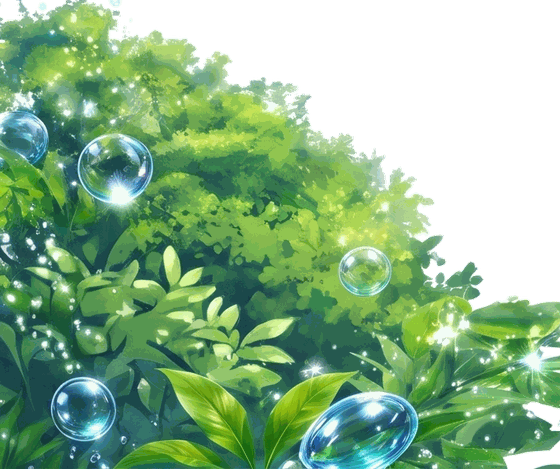
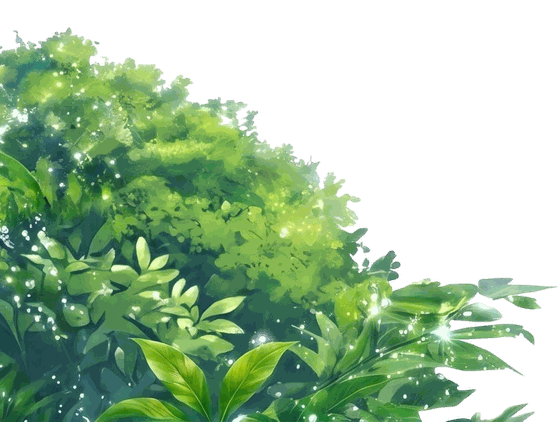
v0.4.11: новые листья, сфера в траве со бликом и ползунком скорости

diff --git a/extension/chat.css b/extension/chat.css
@@ -142,6 +142,60 @@ html.standalone .wrap {
   will-change: transform;
 }
 
+/* Стеклянный шар в правом нижнем углу: лежит ПОД слоем листьев, поэтому снизу
+   его прикрывают непрозрачные листики, как на референсе. Квадратный элемент
+   ровно по картинке — так блик внутри совпадает с шаром, а не с пустым боксом. */
+.bg-sphere {
+  inset: auto 2.6% 0.5% auto;
+  width: 19%;
+  aspect-ratio: 1;
+  background-image: url("bg/sphere.png");
+  background-size: 100% 100%;
+  background-repeat: no-repeat;
+  z-index: 3;
+  transform-origin: 50% 55%;
+  will-change: transform;
+}
+
+.bg-sphere::after {
+  content: "";
+  position: absolute;
+  inset: 6%;
+  border-radius: 50%;
+  background: radial-gradient(circle at 36% 30%, rgba(255, 255, 255, 0.8) 0%, rgba(255, 255, 255, 0.18) 26%, rgba(255, 255, 255, 0) 58%);
+  mix-blend-mode: screen;
+  pointer-events: none;
+}
+
+html[data-sphere="1"] .bg-sphere {
+  animation: sphereTurn calc(26s * var(--k-sphere, 1)) ease-in-out infinite alternate;
+}
+
+html[data-sphere="1"] .bg-sphere::after {
+  animation: sphereLight calc(9s * var(--k-sphere, 1)) ease-in-out infinite alternate;
+}
+
+@keyframes sphereTurn {
+  from {
+    transform: rotate(-3.2deg) scale(1);
+  }
+  to {
+    transform: rotate(3.2deg) scale(1.025);
+  }
+}
+
+/* «преломление»: блик внутри шара медленно гуляет и разгорается */
+@keyframes sphereLight {
+  from {
+    opacity: 0.22;
+    transform: translate3d(-4%, 5%, 0) scale(0.92);
+  }
+  to {
+    opacity: 0.9;
+    transform: translate3d(6%, -5%, 0) scale(1.08);
+  }
+}
+
 .bg-leaf-tl {
   background-image: url("bg/leaf-tl.png");
   background-position: left top;
@@ -184,15 +238,15 @@ html.standalone .wrap {
 }
 
 html[data-plant="1"] .bg-leaf-tl {
-  animation: leafSwayA calc(13s * var(--k-plants, 1)) ease-in-out infinite alternate;
+  animation: leafSwayA calc(9s * var(--k-plants, 1)) ease-in-out infinite alternate;
 }
 
 html[data-plant="1"] .bg-leaf-bl {
-  animation: leafSwayB calc(10s * var(--k-plants, 1)) ease-in-out infinite alternate;
+  animation: leafSwayB calc(7.5s * var(--k-plants, 1)) ease-in-out infinite alternate;
 }
 
 html[data-plant="1"] .bg-leaf-br {
-  animation: leafSwayC calc(15s * var(--k-plants, 1)) ease-in-out infinite alternate;
+  animation: leafSwayC calc(10s * var(--k-plants, 1)) ease-in-out infinite alternate;
 }
 
 html[data-plant="1"] .bg-leaf-br::after {
@@ -200,18 +254,18 @@ html[data-plant="1"] .bg-leaf-br::after {
 }
 
 @keyframes leafSwayA {
-  from { transform: rotate(-0.5deg) translate3d(0, 0, 0); }
-  to { transform: rotate(0.55deg) translate3d(0.4%, 0.3%, 0); }
+  from { transform: rotate(-1.4deg) translate3d(-0.4%, 0, 0) scale(1.01); }
+  to { transform: rotate(1.5deg) translate3d(0.7%, 0.5%, 0) scale(1.02); }
 }
 
 @keyframes leafSwayB {
-  from { transform: rotate(0.6deg) scale(1.01); }
-  to { transform: rotate(-0.7deg) scale(1.02); }
+  from { transform: rotate(1.8deg) translate3d(0.5%, 0, 0) scale(1.01); }
+  to { transform: rotate(-1.6deg) translate3d(-0.6%, 0.4%, 0) scale(1.035); }
 }
 
 @keyframes leafSwayC {
-  from { transform: rotate(0.4deg) translate3d(0, 0, 0); }
-  to { transform: rotate(-0.45deg) translate3d(-0.3%, -0.2%, 0); }
+  from { transform: rotate(1.3deg) translate3d(0.4%, 0, 0) scale(1.01); }
+  to { transform: rotate(-1.2deg) translate3d(-0.6%, -0.4%, 0) scale(1.03); }
 }
 
 @keyframes sphereGlint {
@@ -223,7 +277,9 @@ html[data-plant="1"] .bg-leaf-br::after {
   html[data-plant="1"] .bg-leaf-tl,
   html[data-plant="1"] .bg-leaf-bl,
   html[data-plant="1"] .bg-leaf-br,
-  html[data-plant="1"] .bg-leaf-br::after {
+  html[data-plant="1"] .bg-leaf-br::after,
+  html[data-sphere="1"] .bg-sphere,
+  html[data-sphere="1"] .bg-sphere::after {
     animation: none;
   }
 }

diff --git a/extension/locales_more.js b/extension/locales_more.js
@@ -158,6 +158,7 @@ export const EXTRA = {
     "theme.live.bubbles": "Blasen",
     "theme.live.sun": "Sonne",
     "theme.live.plants": "Pflanzen",
+    "theme.sphere": "Kugelgeschwindigkeit",
     "theme.panel": "Dichte der Panels",
     "sound.title": "Ton",
     "sound.on": "Bei neuen Nachrichten warnen",
@@ -337,6 +338,7 @@ export const EXTRA = {
     "theme.live.bubbles": "Bulles",
     "theme.live.sun": "Soleil",
     "theme.live.plants": "Végétaux",
+    "theme.sphere": "Vitesse de la sphère",
     "theme.panel": "Densité des panneaux",
     "sound.title": "Son",
     "sound.on": "Alerte aux nouveaux messages",
@@ -516,6 +518,7 @@ export const EXTRA = {
     "theme.live.bubbles": "Burbujas",
     "theme.live.sun": "Sol",
     "theme.live.plants": "Plantas",
+    "theme.sphere": "Velocidad de la esfera",
     "theme.panel": "Densidad de paneles",
     "sound.title": "Sonido",
     "sound.on": "Avisar de mensajes nuevos",
@@ -695,6 +698,7 @@ export const EXTRA = {
     "theme.live.bubbles": "Bolle",
     "theme.live.sun": "Sole",
     "theme.live.plants": "Piante",
+    "theme.sphere": "Velocità della sfera",
     "theme.panel": "Densità dei pannelli",
     "sound.title": "Suono",
     "sound.on": "Avvisa dei nuovi messaggi",
@@ -874,6 +878,7 @@ export const EXTRA = {
     "theme.live.bubbles": "泡",
     "theme.live.sun": "太陽",
     "theme.live.plants": "植物",
+    "theme.sphere": "球体の速度",
     "theme.panel": "パネルの濃さ",
     "sound.title": "サウンド",
     "sound.on": "新着メッセージを通知する",
@@ -1053,6 +1058,7 @@ export const EXTRA = {
     "theme.live.bubbles": "气泡",
     "theme.live.sun": "太阳",
     "theme.live.plants": "植物",
+    "theme.sphere": "球体速度",
     "theme.panel": "面板浓度",
     "sound.title": "提示音",
     "sound.on": "新消息提醒",

diff --git a/extension/chat.js b/extension/chat.js
@@ -221,6 +221,7 @@ function applyLocale() {
   $("lblBubbles").textContent = t("theme.live.bubbles");
   $("lblSun").textContent = t("theme.live.sun");
   $("lblPlants").textContent = t("theme.live.plants");
+  $("lblSphere").textContent = t("theme.sphere");
   $("lblGrad").textContent = t("theme.gradient");
   $("lblAngle").textContent = t("theme.angle");
   $("lblGradAlpha").textContent = t("theme.alpha");
@@ -866,7 +867,7 @@ function paintThemeControls() {
   $("glassBlur").closest(".row").hidden = !skinById(state.theme.skin).glass;
   // ползунки живого фона и плотности панелей — только у стеклянного скина
   const glassy = skinById(state.theme.skin).glass;
-  ["panelAlpha", "liveBubbles", "liveSun", "livePlants"].forEach((id) => {
+  ["panelAlpha", "liveBubbles", "liveSun", "livePlants", "sphereSpeed"].forEach((id) => {
     $(id).closest(".row").hidden = !glassy;
   });
   $("lblLive").hidden = !glassy;
@@ -874,6 +875,7 @@ function paintThemeControls() {
   $("liveBubbles").value = String(state.theme.live?.bubbles ?? 60);
   $("liveSun").value = String(state.theme.live?.sun ?? 60);
   $("livePlants").value = String(state.theme.live?.plants ?? 60);
+  $("sphereSpeed").value = String(state.theme.sphereSpeed ?? 60);
   renderSkins();
 }
 
@@ -1902,6 +1904,11 @@ function bindEvents() {
   paintScene();
       saveTheme();
     });
+  });
+  $("sphereSpeed").addEventListener("input", (e) => {
+    state.theme.sphereSpeed = Number(e.target.value);
+    applyTheme(document.documentElement, state.theme);
+    saveTheme();
   });
   $("panelAlpha").addEventListener("input", (e) => {
     state.theme.panelAlpha = Number(e.target.value);

diff --git a/extension/themes.js b/extension/themes.js
@@ -176,6 +176,7 @@ export const DEFAULT_THEME = {
      умолчанию выключено; включается галкой «Матовое стекло» в 🎨 */
   blur: false,
   live: { bubbles: 60, sun: 60, plants: 60 },
+  sphereSpeed: 60,
   panelAlpha: 10,
   gradient: { ...SPECIAL_SKINS[0].gradient, custom: false },
   background: { data: "", fit: "cover", alpha: 0.35 },
@@ -259,6 +260,9 @@ export function applyTheme(root, theme) {
     root.dataset[LIVE_ATTR[key]] = skin.glass && value > 0 ? "1" : "0";
   }
   set("--panel-a", String(Math.max(0, Math.min(100, Number(theme.panelAlpha) || 0)) / 100));
+  const sphere = Math.max(0, Math.min(100, Number(theme.sphereSpeed ?? 60)));
+  set("--k-sphere", String(liveK(sphere)));
+  root.dataset.sphere = skin.glass && sphere > 0 ? "1" : "0";
   set("--bg-image", theme.background.data ? `url(${theme.background.data})` : "none");
   set("--bg-size", theme.background.fit === "tile" ? "auto" : theme.background.fit);
   set("--bg-repeat", theme.background.fit === "tile" ? "repeat" : "no-repeat");
@@ -286,6 +290,9 @@ export function normalizeTheme(raw) {
   }
   if (Number.isFinite(Number(raw.panelAlpha))) {
     base.panelAlpha = Math.max(0, Math.min(100, Math.round(Number(raw.panelAlpha))));
+  }
+  if (Number.isFinite(Number(raw.sphereSpeed))) {
+    base.sphereSpeed = Math.max(0, Math.min(100, Math.round(Number(raw.sphereSpeed))));
   }
   if (typeof raw.blur === "boolean") base.blur = raw.blur;
   Object.assign(base.gradient, raw.gradient || {});

diff --git a/extension/chat.html b/extension/chat.html
@@ -13,6 +13,7 @@
       <canvas class="bg bg-canvas" id="bgScene"></canvas>
       <div class="bg bg-img"></div>
       <div class="bg bg-grad"></div>
+      <div class="bg bg-sphere"></div>
       <div class="bg bg-leaf bg-leaf-tl"></div>
       <div class="bg bg-leaf bg-leaf-bl"></div>
       <div class="bg bg-leaf bg-leaf-br"></div>
@@ -180,6 +181,7 @@
       <label class="row"><span id="lblBubbles"></span><input type="range" id="liveBubbles" min="0" max="100" step="5" /></label>
       <label class="row"><span id="lblSun"></span><input type="range" id="liveSun" min="0" max="100" step="5" /></label>
       <label class="row"><span id="lblPlants"></span><input type="range" id="livePlants" min="0" max="100" step="5" /></label>
+      <label class="row"><span id="lblSphere"></span><input type="range" id="sphereSpeed" min="0" max="100" step="5" /></label>
 
       <p class="theme-sub" id="lblSound"></p>
       <label class="row"><span id="lblSoundOn"></span><input type="checkbox" id="soundOn" /></label>

diff --git a/extension/locales.js b/extension/locales.js
@@ -124,6 +124,7 @@ export const STRINGS = {
     "theme.live.bubbles": "Пузыри",
     "theme.live.sun": "Солнце",
     "theme.live.plants": "Растения",
+    "theme.sphere": "Скорость сферы",
     "theme.panel": "Плотность панелей",
     "sound.title": "Звук",
     "sound.on": "Оповещать о новых сообщениях",
@@ -303,6 +304,7 @@ export const STRINGS = {
     "theme.live.bubbles": "Bubbles",
     "theme.live.sun": "Sun",
     "theme.live.plants": "Plants",
+    "theme.sphere": "Sphere speed",
     "theme.panel": "Panel density",
     "sound.title": "Sound",
     "sound.on": "Alert about new messages",

diff --git a/README.md b/README.md
@@ -30,7 +30,7 @@ Worker. Аккуратный читатель заметит: это не «ко
 
 Нужен браузер на Chromium (Chrome, Яндекс, Edge, Vivaldi) версии 88 и новее.
 
-1. Скачать `orbita-v0.4.10.zip` в [Releases](https://github.com/MeLord2024/Orbita/releases/latest).
+1. Скачать `orbita-v0.4.11.zip` в [Releases](https://github.com/MeLord2024/Orbita/releases/latest).
 2. Распаковать в любую папку, которую не будете удалять (расширение читается из неё при каждом запуске).
 3. `chrome://extensions` → включить **Режим разработчика** → **Загрузить распакованное расширение** →
    выбрать папку `extension`.
@@ -108,7 +108,7 @@ Worker. Аккуратный читатель заметит: это не «ко
 | Звук в панели «🎨 оформление» | работает: переключатель «Оповещать о новых сообщениях», три встроенных оповещения — **«капля»** (короткая нисходящая пара тонов), **«перезвон»** (восходящее трезвучие) и **«импульс»** (мягкий «гул» на треугольной волне). Все три синтезируются на лету через WebAudio (`extension/sound.js`), поэтому в архиве нет ни одного аудиофайла и сборка не растёт |
 | Свой mp3 для оповещения | работает: «Загрузить звук» принимает `.mp3` / `audio/mpeg` до 3 МБ, файл уезжает data-URL-ом в `chrome.storage.local` под отдельным ключом `orbita.sound` (расширение с `unlimitedStorage`, так что лимит 10 МБ общим ключом не упирается) и играет вместо встроенного; кнопка «✕» возвращает встроенный звук. Настройки хранятся раздельно: удаление оформления (`orbita.theme`) звук не трогает |
 | Ползунок громкости | работает: 0–100 %, шаг 5, подпись «Громкость · NN %»; громкость множит амплитуду синтезируемой волны и `Audio.volume` у своего файла, при 0 звук молчит совсем. Оповещение звучит только на чужие новые сообщения (свои не звонят), первый прогрев ленты после открытия молчит, и пока вы не кликнули по чату браузер не даёт звуку стартовать — первый клик «размораживает» аудиоконтекст |
-| Frutiger Aero — скин по умолчанию | работает: при установке сразу включается Aero, градиент чата прозрачный (alpha 0), окно оверлея на 100 % непрозрачное. Фон — сцена (`extension/bg/aero.jpg`: небо, облака, океан, город), поверх которой **canvas** (`extension/scene.js`) рисует живую воду (полоски со сдвигом по синусу), яркий солнечный блик с кольцами и дорожкой на воде и всплывающие пузыри. Зелень и стеклянная сфера — вырезанные PNG (`bg/leaf-tl.png`, `bg/leaf-bl.png`, `bg/leaf-br.png`): листья покачиваются CSS-трансформом, по сфере медленно скользит блик. **Три эффекта включаются отдельно** ползунками в 🎨: «Пузыри», «Солнце», «Растения» — 0 выключает, 100 даёт максимальную скорость. Звезда «важное» при отметке вытягивается в овал и показывает «★ N»; сняли свою звезду и других нет — снова круг. **Плотность боковых панелей** — отдельный ползунок, по умолчанию 10 % (почти прозрачное стекло, сквозь которое видно сцену; 100 % — плотное молочное). Аватары — стеклянные человечки: 25 готовых PNG в `extension/avatars/`, номер выбирается хэшем псевдонима, поэтому человек одинаков во всех комнатах. Значки анимаций — тоже картинки (`extension/icons/fx-*.png`: огонь, щит, метеор, шторм, портал, корона), кнопка ✦ и отправка — глянцевые star.png и send.png. Матовое стекло по умолчанию выключено: это самый дорогой эффект на видеокарте. Кнопки — круглые глянцевые «капли», медальоны значков 52 px с цветным свечением, пузыри с верхней белой полосой-бликом. Движение — только `transform` и `opacity`; сцена не масштабируется, у солнца анимируется только прозрачность (это и есть ответ на нагрузку), `prefers-reduced-motion` уважается |
+| Frutiger Aero — скин по умолчанию | работает: при установке сразу включается Aero, градиент чата прозрачный (alpha 0), окно оверлея на 100 % непрозрачное. Фон — сцена (`extension/bg/aero.jpg`: небо, облака, океан, город), поверх которой **canvas** (`extension/scene.js`) рисует живую воду (полоски со сдвигом по синусу), яркий солнечный блик с кольцами и дорожкой на воде и всплывающие пузыри. Зелень и стеклянная сфера — вырезанные PNG (`bg/leaf-tl.png`, `bg/leaf-bl.png`, `bg/leaf-br.png`, `bg/sphere.png`): листья заметно покачиваются (до ±1.8°), а шар лежит ПОД листвой в правом нижнем углу — снизу его прикрывают непрозрачные листики; внутри шара медленно гуляет блик, сам шар чуть поворачивается. Скорость шара — отдельный ползунок «Скорость сферы» в 🎨. **Три эффекта включаются отдельно** ползунками в 🎨: «Пузыри», «Солнце», «Растения» — 0 выключает, 100 даёт максимальную скорость. Звезда «важное» при отметке вытягивается в овал и показывает «★ N»; сняли свою звезду и других нет — снова круг. **Плотность боковых панелей** — отдельный ползунок, по умолчанию 10 % (почти прозрачное стекло, сквозь которое видно сцену; 100 % — плотное молочное). Аватары — стеклянные человечки: 25 готовых PNG в `extension/avatars/`, номер выбирается хэшем псевдонима, поэтому человек одинаков во всех комнатах. Значки анимаций — тоже картинки (`extension/icons/fx-*.png`: огонь, щит, метеор, шторм, портал, корона), кнопка ✦ и отправка — глянцевые star.png и send.png. Матовое стекло по умолчанию выключено: это самый дорогой эффект на видеокарте. Кнопки — круглые глянцевые «капли», медальоны значков 52 px с цветным свечением, пузыри с верхней белой полосой-бликом. Движение — только `transform` и `opacity`; сцена не масштабируется, у солнца анимируется только прозрачность (это и есть ответ на нагрузку), `prefers-reduced-motion` уважается |
 | Кнопка «⊟ скрыть» под сообщением | работает: сообщение и аватар сворачиваются в узкую полоску, ▲/▼, ★ и ⚑ остаются на месте, а «⊟» превращается в «⊡ развернуть» в той же ячейке; состояние хранится в `chrome.storage` |
 | Поиск слова в чате (со скетча) | работает |
 | Жалоба ⚑, 3 жалобы — сообщение скрыто | работает |

diff --git a/INSTALL.md b/INSTALL.md
@@ -1,7 +1,7 @@
 # Установка тестовой версии
 
 1. Распакуйте архив так, чтобы осталась папка `extension` (внутри неё лежит `manifest.json`).
-   Пути вида `C:\orbita\orbita-v0.4.10\extension` работают, но лучше без вложенных копий после переразпаковки.
+   Пути вида `C:\orbita\orbita-v0.4.11\extension` работают, но лучше без вложенных копий после переразпаковки.
 
 2. Откройте в Chrome:
 
@@ -365,6 +365,11 @@ create table if not exists orb_meta (key text primary key, val integer not null 
   `rm` (в базе к тому же нет колонки `reply_to`). Расширение работает и со старым сервером: снятая звезда или
   жалоба исчезает у вас и не возвращается. Но соседи до перезаливки `worker.js` всё ещё видят ваш псевдоним
   в списках этих сообщений. Миграции для v0.3.6 не нужно — только redeploy воркера.
+- **Сфера в листве и живая зелень (v0.4.11).** Новые PNG листвы и `bg/sphere.png` из присланных
+  файлов. Шар стоит в правом нижнем углу на слое НИЖЕ листвы (z-index 3 против 4), поэтому снизу его
+  прикрывают непрозрачные листья, как на референсе; внутри медленно гуляет блик (`sphereLight`), сам
+  шар чуть поворачивается (`sphereTurn`). Скорость — новый ползунок «Скорость сферы» в 🎨 (0 выключает
+  анимацию). Качание листвы усилено: амплитуда до ±1.8° вместо ±0.7°, периоды короче (7.5–10 с).
 - **«Все/Важные/Мои/Топ» перекрашиваются плавно (v0.4.10).** У этих кнопок переход цвета не
   запускался не из-за CSS: `paintHeader()` каждый раз пересобирал их через `replaceChildren()`, то
   есть нажатая кнопка была новым элементом без «предыдущего» цвета. Теперь набор кнопок строится
